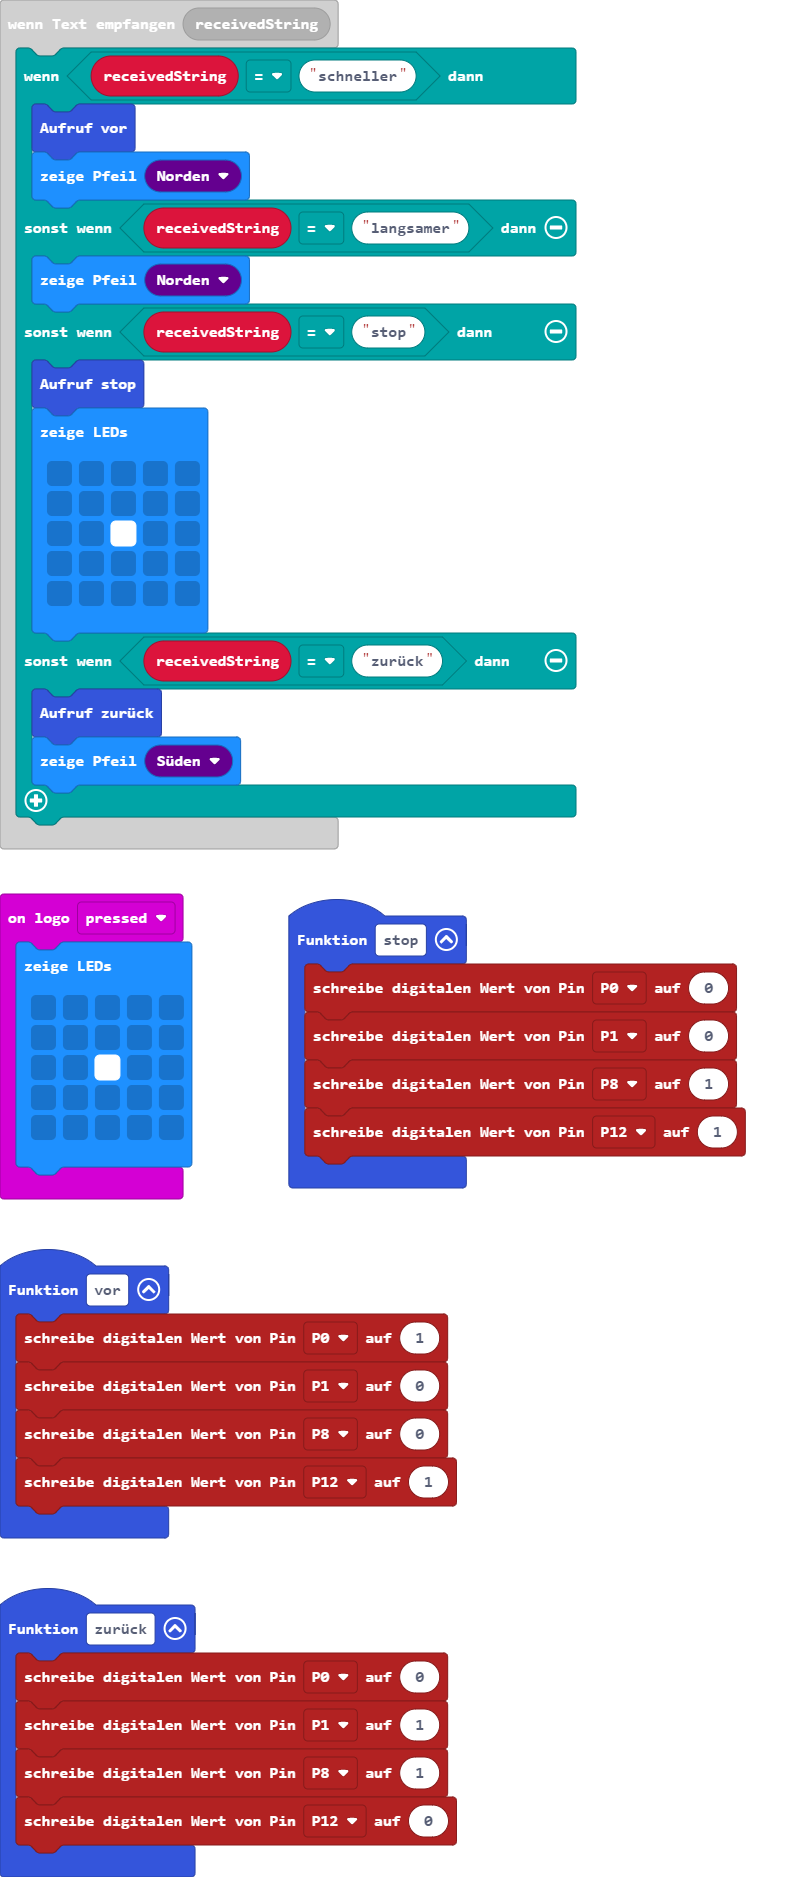
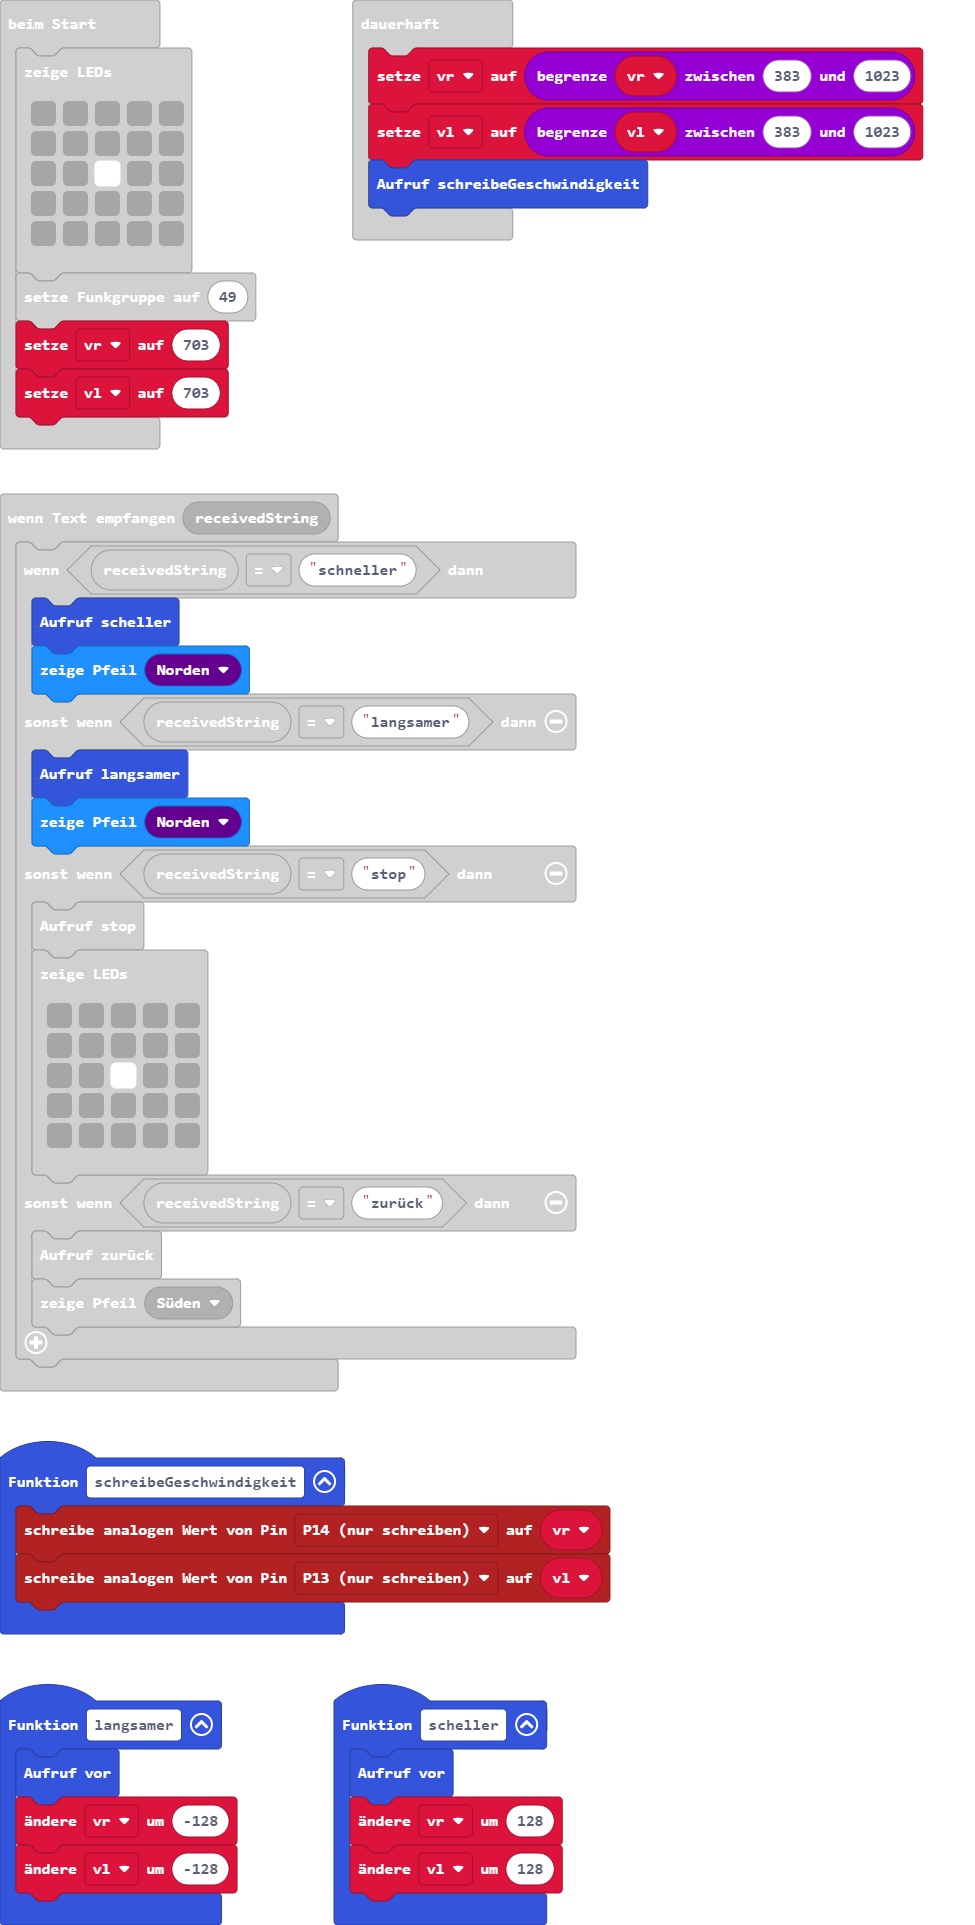
Schneller Langsamer

diff --git a/main.ts b/main.ts
@@ -1,3 +1,8 @@
+function scheller () {
+    vor()
+    vr += 128
+    vl += 128
+}
 function vor () {
     pins.digitalWritePin(DigitalPin.P0, 1)
     pins.digitalWritePin(DigitalPin.P1, 0)
@@ -24,9 +29,10 @@ input.onButtonPressed(Button.AB, function () {
 })
 radio.onReceivedString(function (receivedString) {
     if (receivedString == "schneller") {
-        vor()
+        scheller()
         basic.showArrow(ArrowNames.North)
     } else if (receivedString == "langsamer") {
+        langsamer()
         basic.showArrow(ArrowNames.North)
     } else if (receivedString == "stop") {
         stop()
@@ -45,6 +51,11 @@ radio.onReceivedString(function (receivedString) {
 input.onButtonPressed(Button.B, function () {
     basic.showArrow(ArrowNames.North)
 })
+function langsamer () {
+    vor()
+    vr += -128
+    vl += -128
+}
 input.onLogoEvent(TouchButtonEvent.Pressed, function () {
     basic.showLeds(`
         . . . . .
@@ -54,6 +65,12 @@ input.onLogoEvent(TouchButtonEvent.Pressed, function () {
         . . . . .
         `)
 })
+function schreibeGeschwindigkeit () {
+    pins.analogWritePin(AnalogPin.P14, vr)
+    pins.analogWritePin(AnalogPin.P13, vl)
+}
+let vl = 0
+let vr = 0
 basic.showLeds(`
     . . . . .
     . . . . .
@@ -62,6 +79,10 @@ basic.showLeds(`
     . . . . .
     `)
 radio.setGroup(49)
+vr = 703
+vl = 703
 basic.forever(function () {
-	
+    vr = Math.constrain(vr, 383, 1023)
+    vl = Math.constrain(vl, 383, 1023)
+    schreibeGeschwindigkeit()
 })
